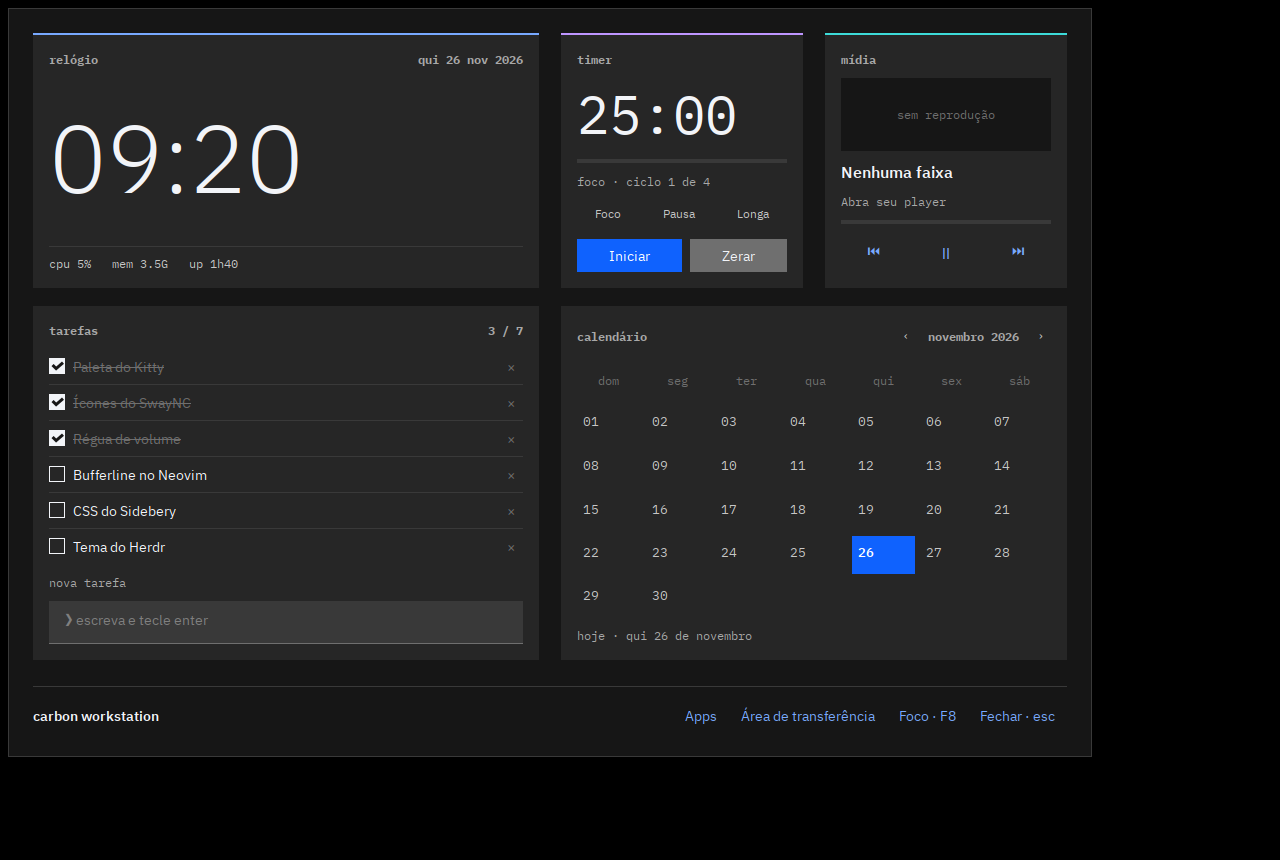
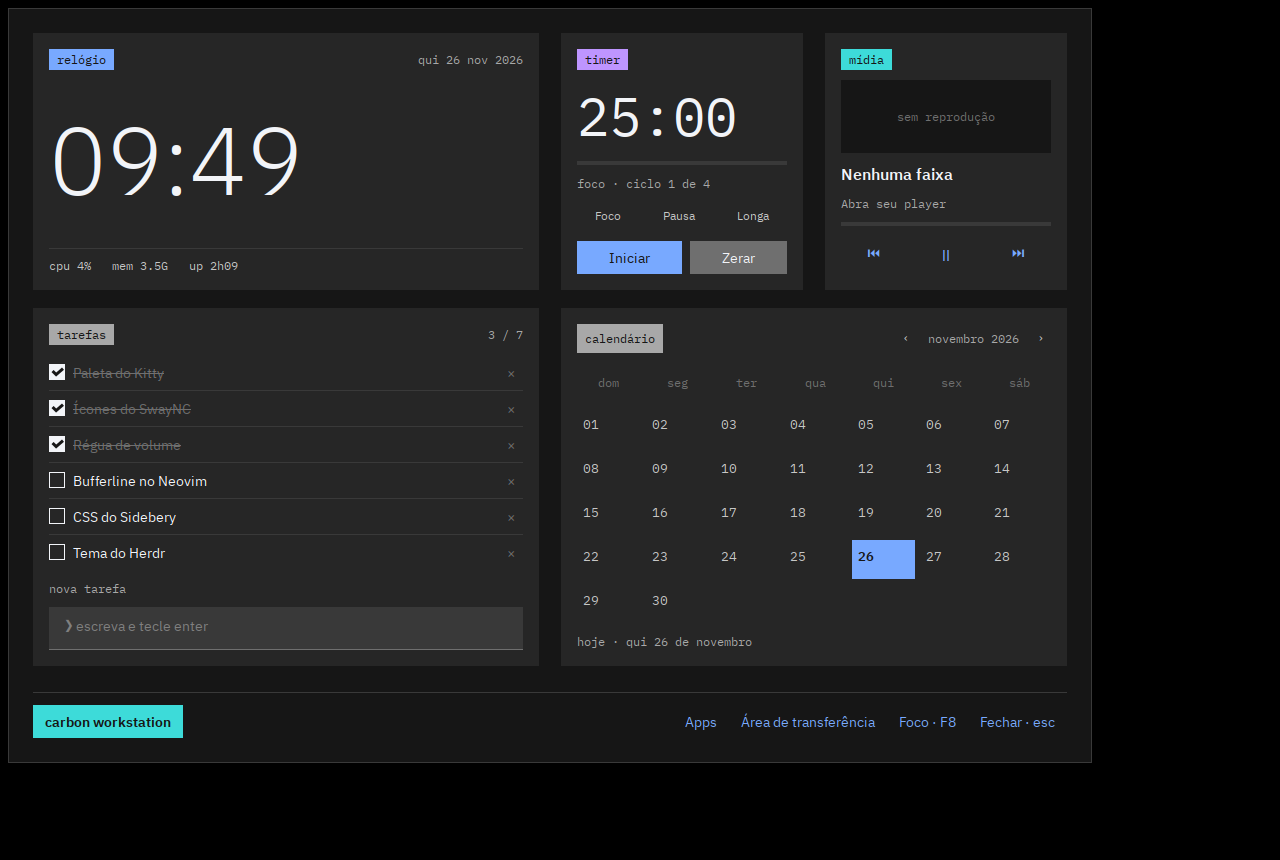
Fill identity and state with color; fix workspace clicks under the Lua config
Waybar's hyprland/workspaces sends the legacy 'dispatch workspace N', which Hyprland's
Lua config rejects, so clicks landed on the wrong workspace. Five custom buttons now
focus through hl.dsp.focus and redraw on socket2 events (no polling).

The cyan 'carbon workstation' cell, the active workspace, alerts, card tags and toggles
use filled color; list selections, tabs and toasts keep their stripes.

diff --git a/config/waybar/style.css b/config/waybar/style.css
@@ -7,17 +7,17 @@ tooltip { background: #393939; border: 0; }
 tooltip label { color: #f2f4f8; font-family: "IBM Plex Sans", sans-serif; font-size: 12px; }
 
 /* header name: "carbon workstation", Plex Sans, separated by a rule */
-#custom-dashboard { font-family: "IBM Plex Sans", sans-serif; font-size: 14px; font-weight: 600; color: #f2f4f8; padding: 0 16px; border-right: 1px solid #393939; }
-#custom-dashboard:hover { background: #262626; }
+#custom-dashboard { font-family: "IBM Plex Sans", sans-serif; font-size: 14px; font-weight: 600; color: #161616; background: #3ddbd9; padding: 0 16px; }
+#custom-dashboard:hover { background: #82cfff; }
 
-/* header nav: workspaces as menu items, active marked by a 2px blue rule at the bottom */
-#workspaces { border-right: 1px solid #393939; }
-#workspaces button { min-width: 32px; padding: 0 4px; color: #6f6f6f; border-bottom: 2px solid transparent; border-top: 2px solid transparent; }
-#workspaces button label { color: inherit; }
-#workspaces button:not(.empty) { color: #c6c6c6; }
-#workspaces button.active { background: #262626; color: #f2f4f8; border-bottom-color: #78a9ff; }
-#workspaces button.urgent { color: #ee5396; border-bottom-color: #ee5396; }
-#workspaces button:hover { background: #393939; color: #f2f4f8; }
+/* header nav: workspace buttons; the focused one is filled blue */
+#custom-ws { min-width: 32px; padding: 0 12px; color: #6f6f6f; }
+#custom-ws.occupied { color: #c6c6c6; }
+#custom-ws.visible { background: #262626; color: #f2f4f8; }
+#custom-ws.active { background: #78a9ff; color: #161616; font-weight: 600; }
+#custom-ws:hover { background: #393939; color: #f2f4f8; }
+#custom-ws.active:hover { background: #a6c8ff; color: #161616; }
+#custom-ws.w5 { border-right: 1px solid #393939; }
 
 #window { color: #a8a8a8; padding: 0 16px; }
 window#waybar.empty #window { padding: 0; }
@@ -25,15 +25,16 @@ window#waybar.empty #window { padding: 0; }
 /* global actions: label in secondary text, value in primary text */
 #mpris, #cpu, #memory, #custom-volume, #network, #custom-tailnet, #custom-notifications, #battery { padding: 0 12px; border-left: 1px solid #262626; }
 #mpris { color: #c6c6c6; }
-#cpu.warning, #memory.warning { color: #ff832b; }
-#cpu.critical, #memory.critical { color: #ee5396; }
+#cpu.warning, #memory.warning { background: #ff832b; color: #161616; }
+#cpu.critical, #memory.critical { background: #ee5396; color: #161616; }
 #network.disconnected { color: #6f6f6f; }
 #custom-volume.muted { color: #6f6f6f; }
 #custom-tailnet.down, #custom-tailnet.unavailable { color: #6f6f6f; }
-#custom-notifications.notification { color: #f2f4f8; }
+#custom-notifications.notification, #custom-notifications.inhibited-notification { background: #ee5396; color: #161616; }
+#custom-notifications.dnd-notification, #custom-notifications.dnd-none, #custom-notifications.dnd-inhibited-notification, #custom-notifications.dnd-inhibited-none { background: #ff832b; color: #161616; }
 #mpris:hover, #custom-volume:hover, #network:hover, #custom-tailnet:hover, #custom-notifications:hover { background: #262626; }
 
 /* clock: the last header cell, on layer 01 */
 #custom-clock { background: #262626; color: #f2f4f8; padding: 0 16px; border-left: 1px solid #393939; }
 #custom-clock:hover { background: #393939; }
-#battery.critical { color: #ee5396; }
+#battery.critical { background: #ee5396; color: #161616; }

diff --git a/config/carbon/home.html b/config/carbon/home.html
@@ -14,8 +14,8 @@ a small{display:block;font:12px "IBM Plex Mono",monospace;color:#a8a8a8;margin-b
 a::after{content:"→";position:absolute;right:16px;bottom:16px;color:#78a9ff}
 a:hover{background:#333333}a:focus-visible{outline:2px solid #f2f4f8;outline-offset:-2px}
 a:nth-child(1) small{color:#78a9ff}a:nth-child(2) small{color:#be95ff}a:nth-child(3) small{color:#ff7eb6}a:nth-child(4) small{color:#3ddbd9}
-footer{font:12px "IBM Plex Mono",monospace;color:#6f6f6f;margin-top:40px}
+footer{font:600 13px "IBM Plex Sans",sans-serif;color:#161616;background:#3ddbd9;display:inline-block;padding:4px 10px;margin-top:40px}
 @media(max-width:560px){time{font-size:64px}nav{grid-template-columns:repeat(2,1fr)}}
-</style><main><div id="date"></div><time id="clock"></time><form action="https://www.google.com/search" method="get"><label for="query">Pesquisar</label><div class="entry"><span>❯</span><input id="query" name="q" autocomplete="off" autofocus placeholder="digite e tecle enter"></div></form><nav><a href="https://github.com"><small>01</small>github</a><a href="https://wiki.hypr.land"><small>02</small>hypr wiki</a><a href="https://herdr.dev"><small>03</small>herdr</a><a href="https://claude.ai"><small>04</small>claude</a></nav><footer>carbon / workstation</footer></main><script>/* Grab the search box once the tab is shown; Firefox may keep focus in the URL bar until then. */const q=document.getElementById("query");const grab=()=>{if(document.activeElement!==q)q.focus()};addEventListener("load",grab);addEventListener("pageshow",grab);document.addEventListener("visibilitychange",()=>{if(!document.hidden)grab()});
+</style><main><div id="date"></div><time id="clock"></time><form action="https://www.google.com/search" method="get"><label for="query">Pesquisar</label><div class="entry"><span>❯</span><input id="query" name="q" autocomplete="off" autofocus placeholder="digite e tecle enter"></div></form><nav><a href="https://github.com"><small>01</small>github</a><a href="https://wiki.hypr.land"><small>02</small>hypr wiki</a><a href="https://herdr.dev"><small>03</small>herdr</a><a href="https://claude.ai"><small>04</small>claude</a></nav><footer>carbon workstation</footer></main><script>/* Grab the search box once the tab is shown; Firefox may keep focus in the URL bar until then. */const q=document.getElementById("query");const grab=()=>{if(document.activeElement!==q)q.focus()};addEventListener("load",grab);addEventListener("pageshow",grab);document.addEventListener("visibilitychange",()=>{if(!document.hidden)grab()});
 function tick(){const d=new Date();document.getElementById('date').textContent=d.toLocaleDateString('pt-BR',{weekday:'long',day:'2-digit',month:'long'});const t=document.getElementById('clock');t.textContent=d.toLocaleTimeString('pt-BR',{hour:'2-digit',minute:'2-digit'});t.dateTime=d.toISOString()}tick();setInterval(tick,1000);
 </script></html>

diff --git a/config/swaync/style.css b/config/swaync/style.css
@@ -13,7 +13,7 @@
 
 /* title */
 .widget-title { margin: 0 0 16px; }
-.widget-title > label { color: #f2f4f8; font-size: 16px; font-weight: 600; }
+.widget-title > label { color: #161616; background: #3ddbd9; font-size: 14px; font-weight: 600; padding: 4px 10px; }
 .widget-title > button { background: transparent; color: #78a9ff; border: 0; font-size: 13px; padding: 4px 8px; min-width: 0; }
 .widget-title > button:hover { background: #333333; color: #a6c8ff; }
 
@@ -24,7 +24,8 @@
 .widget-buttons-grid flowboxchild > button { background: #393939; color: #a8a8a8; border: 0; border-bottom: 2px solid #393939; padding: 12px 0; min-width: 0; font-family: "IBM Plex Mono", monospace; font-size: 12px; }
 .widget-buttons-grid flowboxchild > button label { color: inherit; }
 .widget-buttons-grid flowboxchild > button:hover { background: #4c4c4c; color: #f2f4f8; }
-.widget-buttons-grid flowboxchild > button.toggle:checked { background: #393939; color: #f2f4f8; border-bottom-color: #78a9ff; }
+.widget-buttons-grid flowboxchild > button.toggle:checked { background: #78a9ff; color: #161616; border-bottom-color: #78a9ff; }
+.widget-buttons-grid flowboxchild > button.toggle:checked:hover { background: #a6c8ff; border-bottom-color: #a6c8ff; }
 
 /* sliders: 2px track, filled in blue, square thumb */
 .widget-volume, .widget-backlight { background: transparent; padding: 0; margin: 0 0 8px; }

diff --git a/config/carbon/style.css b/config/carbon/style.css
@@ -4,14 +4,15 @@
 window { background: transparent; }
 .surface { background: #161616; padding: 24px; border: 1px solid #393939; }
 .card { background: #262626; padding: 16px; border: 0; }
-.timer-card { border-top: 2px solid #be95ff; }
-.media-card { border-top: 2px solid #3ddbd9; }
-.clock-card { border-top: 2px solid #78a9ff; }
 .heading { font-family: "IBM Plex Mono", monospace; color: #a8a8a8; font-size: 12px; font-weight: 400; }
 .muted { color: #a8a8a8; font-size: 12px; font-family: "IBM Plex Mono", monospace; }
-.brand { font-weight: 600; font-size: 14px; color: #f2f4f8; }
+.brand { font-weight: 600; font-size: 14px; color: #161616; background: #3ddbd9; padding: 6px 12px; }
 .clock { color: #f2f4f8; font-size: 96px; font-weight: 300; letter-spacing: -1px; }
 .stats { font-family: "IBM Plex Mono", monospace; font-size: 12px; color: #c6c6c6; padding: 8px 0 0; border-top: 1px solid #393939; }
+.card > .heading, .card > box > .heading:first-child { color: #161616; background: #a8a8a8; padding: 2px 8px; }
+.clock-card > box > .heading:first-child { background: #78a9ff; }
+.timer-card > .heading { background: #be95ff; }
+.media-card > .heading { background: #3ddbd9; }
 .timer { color: #f2f4f8; font-size: 54px; font-weight: 300; font-family: "IBM Plex Mono", monospace; }
 
 /* buttons: primary (blue 60), secondary (gray), ghost; 32px small, text left aligned */

diff --git a/config/carbon/shell.py b/config/carbon/shell.py
@@ -47,6 +47,7 @@ def add(parent, child, expand=False):
 def label(text='', cls=None):
     w=Gtk.Label(label=text);w.set_xalign(0)
     if cls: w.get_style_context().add_class(cls)
+    if cls in ('heading','brand'): w.set_halign(Gtk.Align.START);w.set_valign(Gtk.Align.CENTER)
     return w
 
 def button(text, callback, cls=None):
@@ -141,7 +142,7 @@ class Shell:
         root=box(True,18,'surface');root.set_border_width(8)
         top=Gtk.Grid(column_spacing=22,row_spacing=22);top.set_column_homogeneous(True)
         clock=card(None,'clock-card');row=box()
-        add(row,label('relógio','heading'),True);self.date=add(row,label('','heading'));add(clock,row)
+        add(row,label('relógio','heading'),True);self.date=add(row,label('','muted'));self.date.set_halign(Gtk.Align.END);add(clock,row)
         self.clock=add(clock,label('','clock'),True)
         self.stats=add(clock,label('cpu …   mem …   up …','stats'))
         top.attach(clock,0,0,2,1)
@@ -163,16 +164,16 @@ class Shell:
         for text,action in [('⏮','previous'),('Ⅱ','play-pause'),('⏭','next')]: add(row,button(text,lambda a=action:launch('playerctl',a),'ghost'),True)
         add(media,row);top.attach(media,3,0,1,1);add(root,top)
         bottom=Gtk.Grid(column_spacing=22);bottom.set_column_homogeneous(True)
-        tasks=card(None);row=box();add(row,label('tarefas','heading'),True);self.task_count=add(row,label('','heading'));add(tasks,row)
+        tasks=card(None);row=box();add(row,label('tarefas','heading'),True);self.task_count=add(row,label('','muted'));add(tasks,row)
         self.task_box=box(True,0);scroll=Gtk.ScrolledWindow();scroll.set_policy(Gtk.PolicyType.NEVER,Gtk.PolicyType.AUTOMATIC);scroll.set_min_content_height(215);scroll.add(self.task_box);add(tasks,scroll,True)
         add(tasks,label('nova tarefa','muted'));self.entry=Gtk.Entry();self.entry.set_placeholder_text('❯ escreva e tecle enter');self.entry.connect('activate',self.add_task);add(tasks,self.entry)
         bottom.attach(tasks,0,0,1,1)
         cal=card(None);row=box();add(row,label('calendário','heading'),True)
-        add(row,button('‹',lambda:self.change_month(-1),'small'));self.month=add(row,label('','heading'));add(row,button('›',lambda:self.change_month(1),'small'));add(cal,row)
+        add(row,button('‹',lambda:self.change_month(-1),'small'));self.month=add(row,label('','muted'));add(row,button('›',lambda:self.change_month(1),'small'));add(cal,row)
         now=dt.date.today();self.cal_year=now.year;self.cal_month=now.month
         self.cal_grid=Gtk.Grid(column_spacing=5,row_spacing=5);self.cal_grid.set_column_homogeneous(True);self.cal_grid.set_row_homogeneous(True);add(cal,self.cal_grid,True)
         self.cal_hint=add(cal,label('','muted'));self.render_calendar();bottom.attach(cal,1,0,1,1);add(root,bottom,True)
-        footer=box(False,0,'footer');add(footer,label('carbon workstation','brand'),True)
+        footer=box(False,0,'footer');add(footer,label('carbon workstation','brand'));add(footer,Gtk.Box(),True)
         for text,cmd in [('Apps','launcher'),('Área de transferência','clipboard'),('Foco · F8','focus')]: add(footer,button(text,lambda c=cmd:(self.hide(),launch(str(ROOT/'control'),c)),'ghost'))
         add(footer,button('Fechar · esc',self.hide,'ghost'));add(root,footer)
         self.window('dashboard',root,1100,740)

diff --git a/config/hypr/hyprlock/render.py b/config/hypr/hyprlock/render.py
@@ -54,9 +54,11 @@ def render(w, h, path, user, net, kb):
 
     # header, same as the Waybar shell header
     rect(cr, RULE, 0, 32, w, 1)
-    x = text(cr, 'carbon ', 16, 21, 14, TEXT, weight='SemiBold')
-    text(cr, 'workstation', x, 21, 14, MUTED)
-    rect(cr, RULE, x + 88, 0, 1, 32)
+    probe = cairo.Context(cairo.ImageSurface(cairo.FORMAT_RGB24, 1, 1))
+    brand_w = text(probe, 'workstation', text(probe, 'carbon ', 16, 21, 14, BG, weight='SemiBold'), 21, 14, BG) + 16
+    rect(cr, TEAL, 0, 0, brand_w, 32)   # cyan brand cell, as in the Waybar header
+    x = text(cr, 'carbon ', 16, 21, 14, BG, weight='SemiBold')
+    text(cr, 'workstation', x, 21, 14, BG)
 
     # sign-in tile: 480 wide on layer 01, form inside with 24px padding
     tx, ty, tw, th = X(720), Y(540), 480, 232
